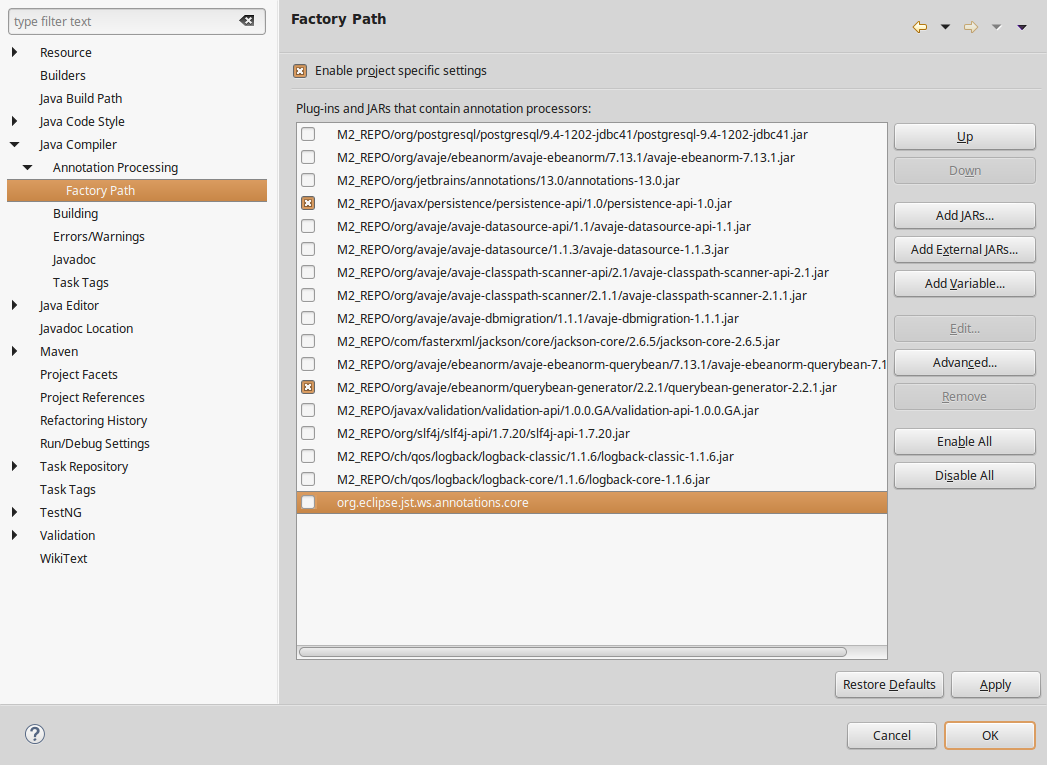
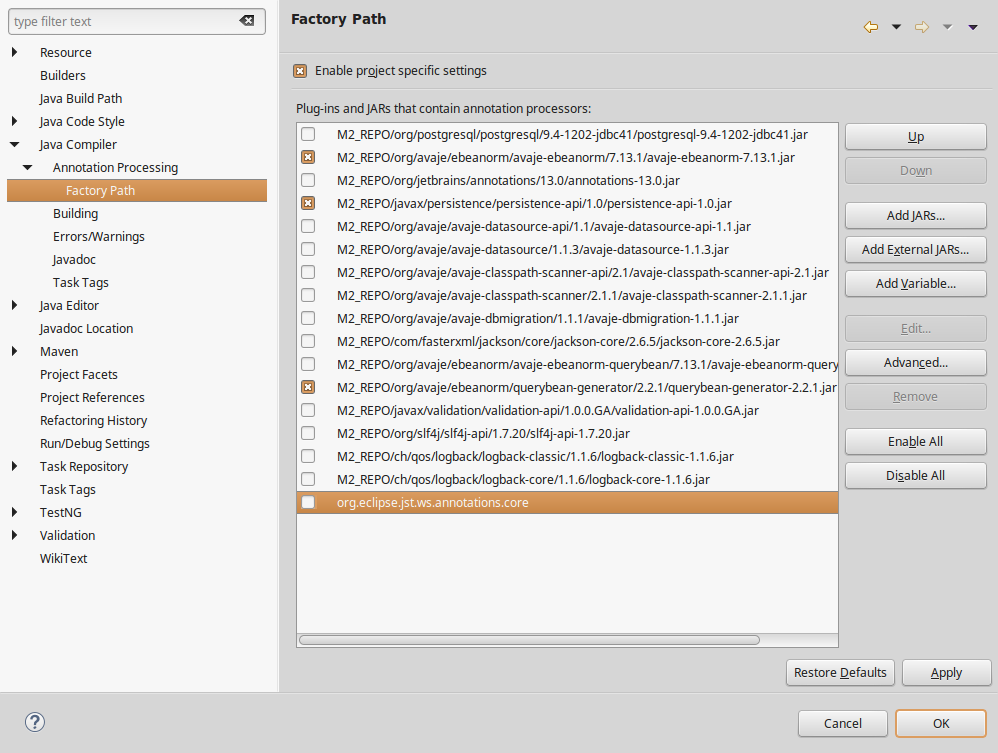
Update eclipse APT setup

Changed region(s): [[0.0, 0.0, 0.994, 1.0], [0.8697, 0.0305, 0.9319, 0.0611], [0.0311, 0.9469, 0.0621, 0.9774]]

diff --git a/docs/setup/eclipse-apt.html b/docs/setup/eclipse-apt.html
@@ -108,6 +108,9 @@
 </div>
     </div>
   </div>
+  <p class="mvm">
+    The Eclipse IDE plugin is installed from: <code>http://ebean-orm.github.io/eclipse/update</code>
+  </p>
 
   <h2 id="overview">Overview</h2>
   <p>
@@ -154,7 +157,9 @@
   <h2 id="factory-path">4. Project / Java compile / Annotation processing / Factory Path</h2>
   <p>
     Check the <code>Factory Path</code>. It is ok if all entries in the classpath are
-    selected but what MUST be selected is <code>querybean-generator</code> and <code>persistence-api</code>.
+    selected but what MUST be selected is <code>querybean-generator</code> and additionally
+    <code>persistence-api</code> and <code>avaje-ebeanorm</code> (we need these last 2 as
+    they contain annotations that querybean-generator is reading as part of it's code generation).
   </p>
   <img src="/images/eclipse/apt/javacompile-apt-factorypath.png" class="img-responsive img-thumbnail">
 
